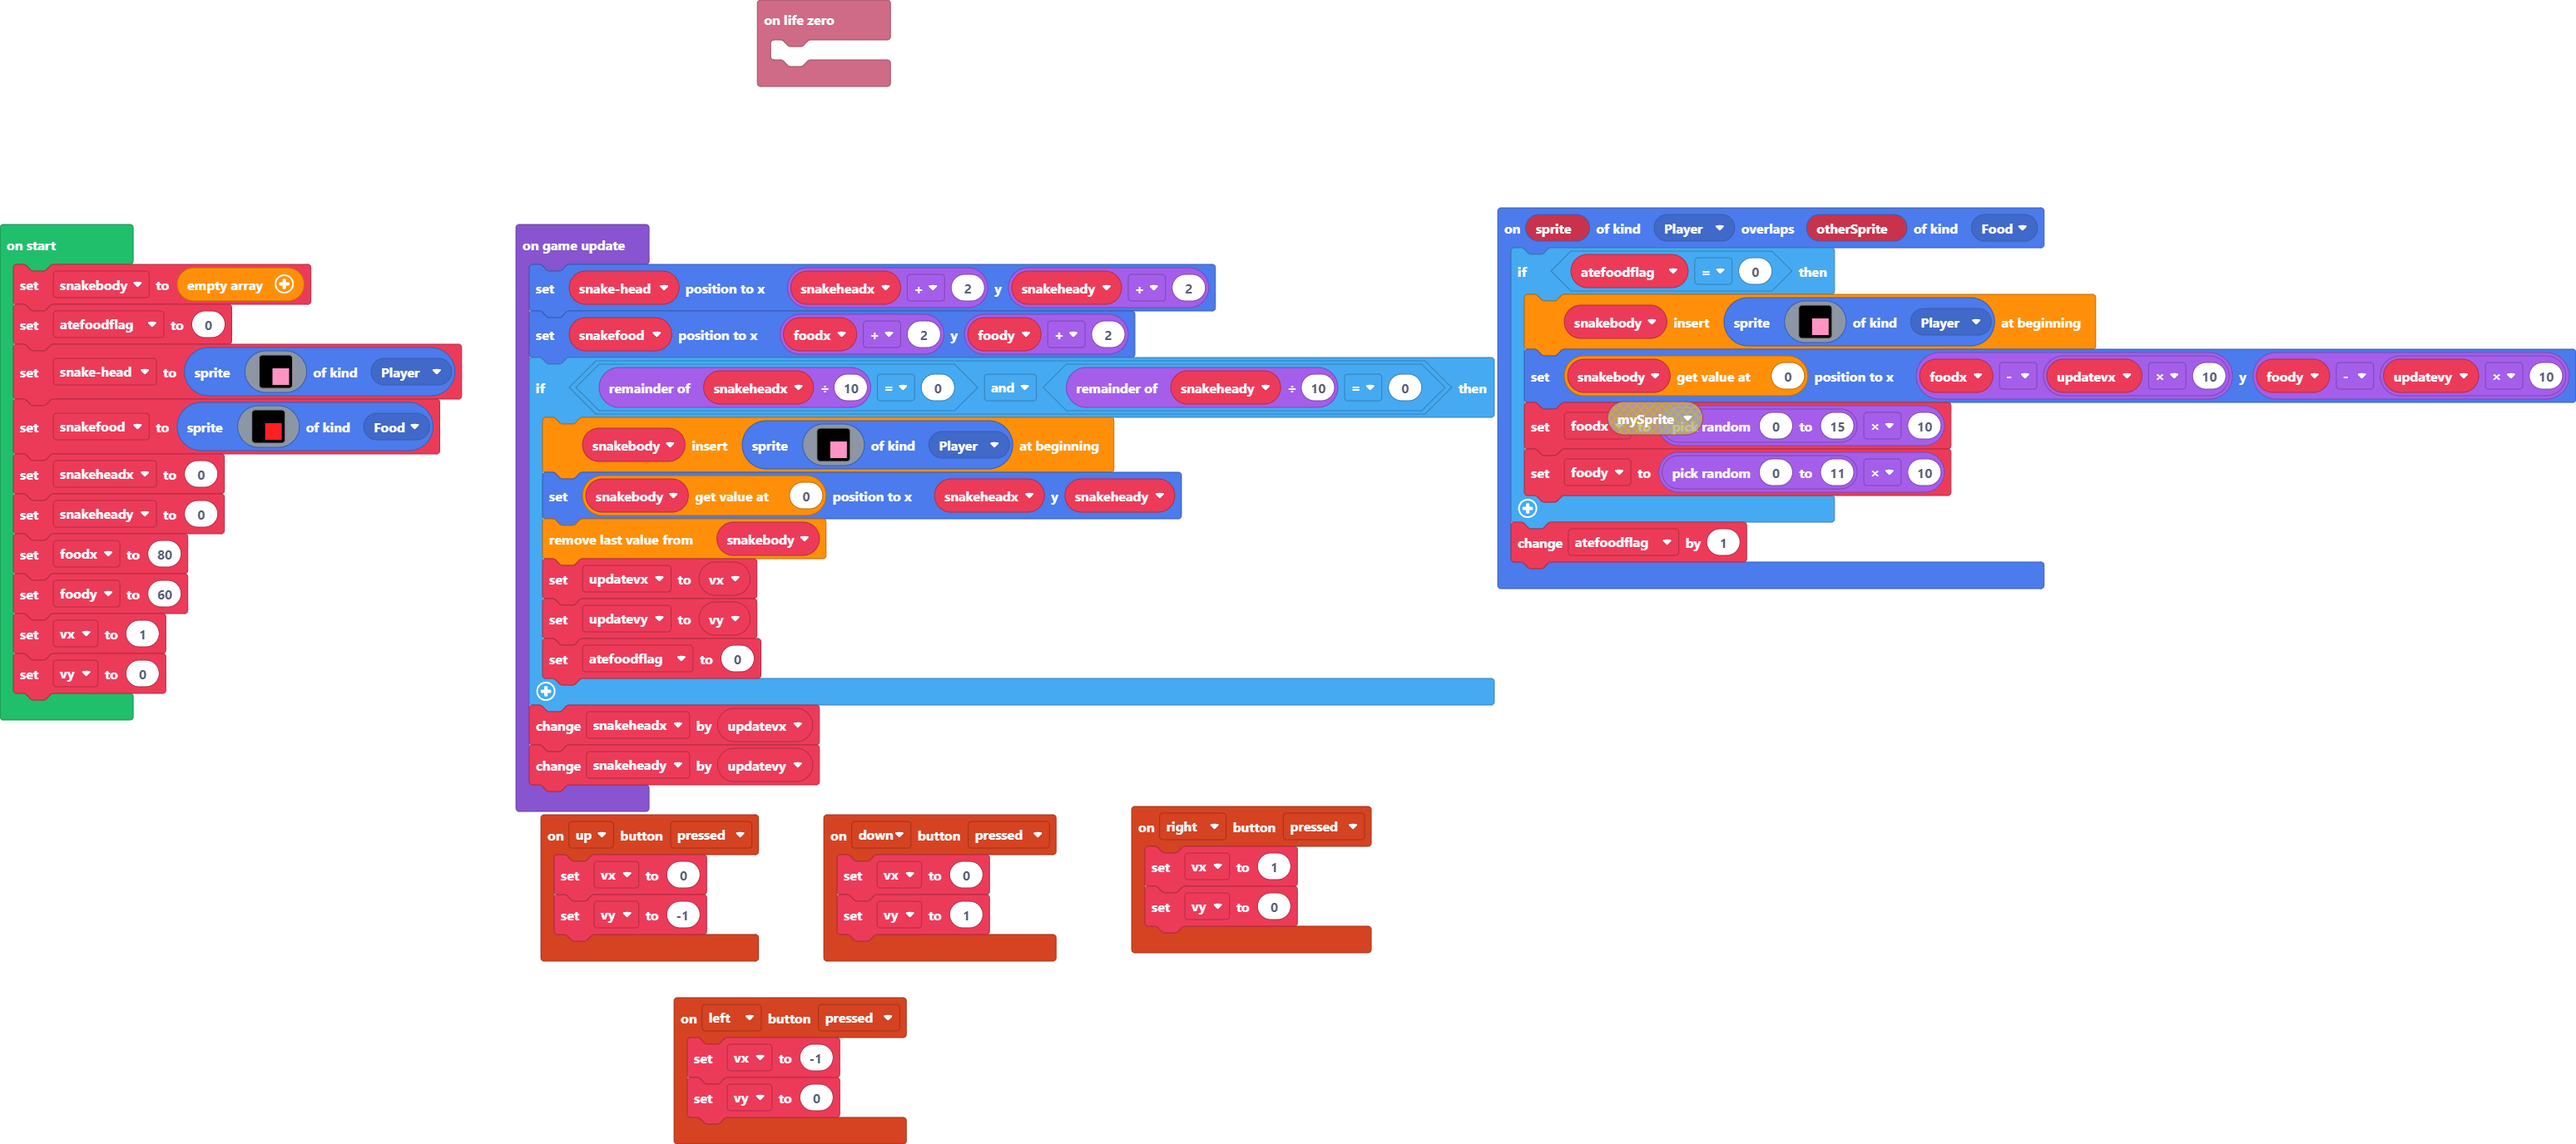
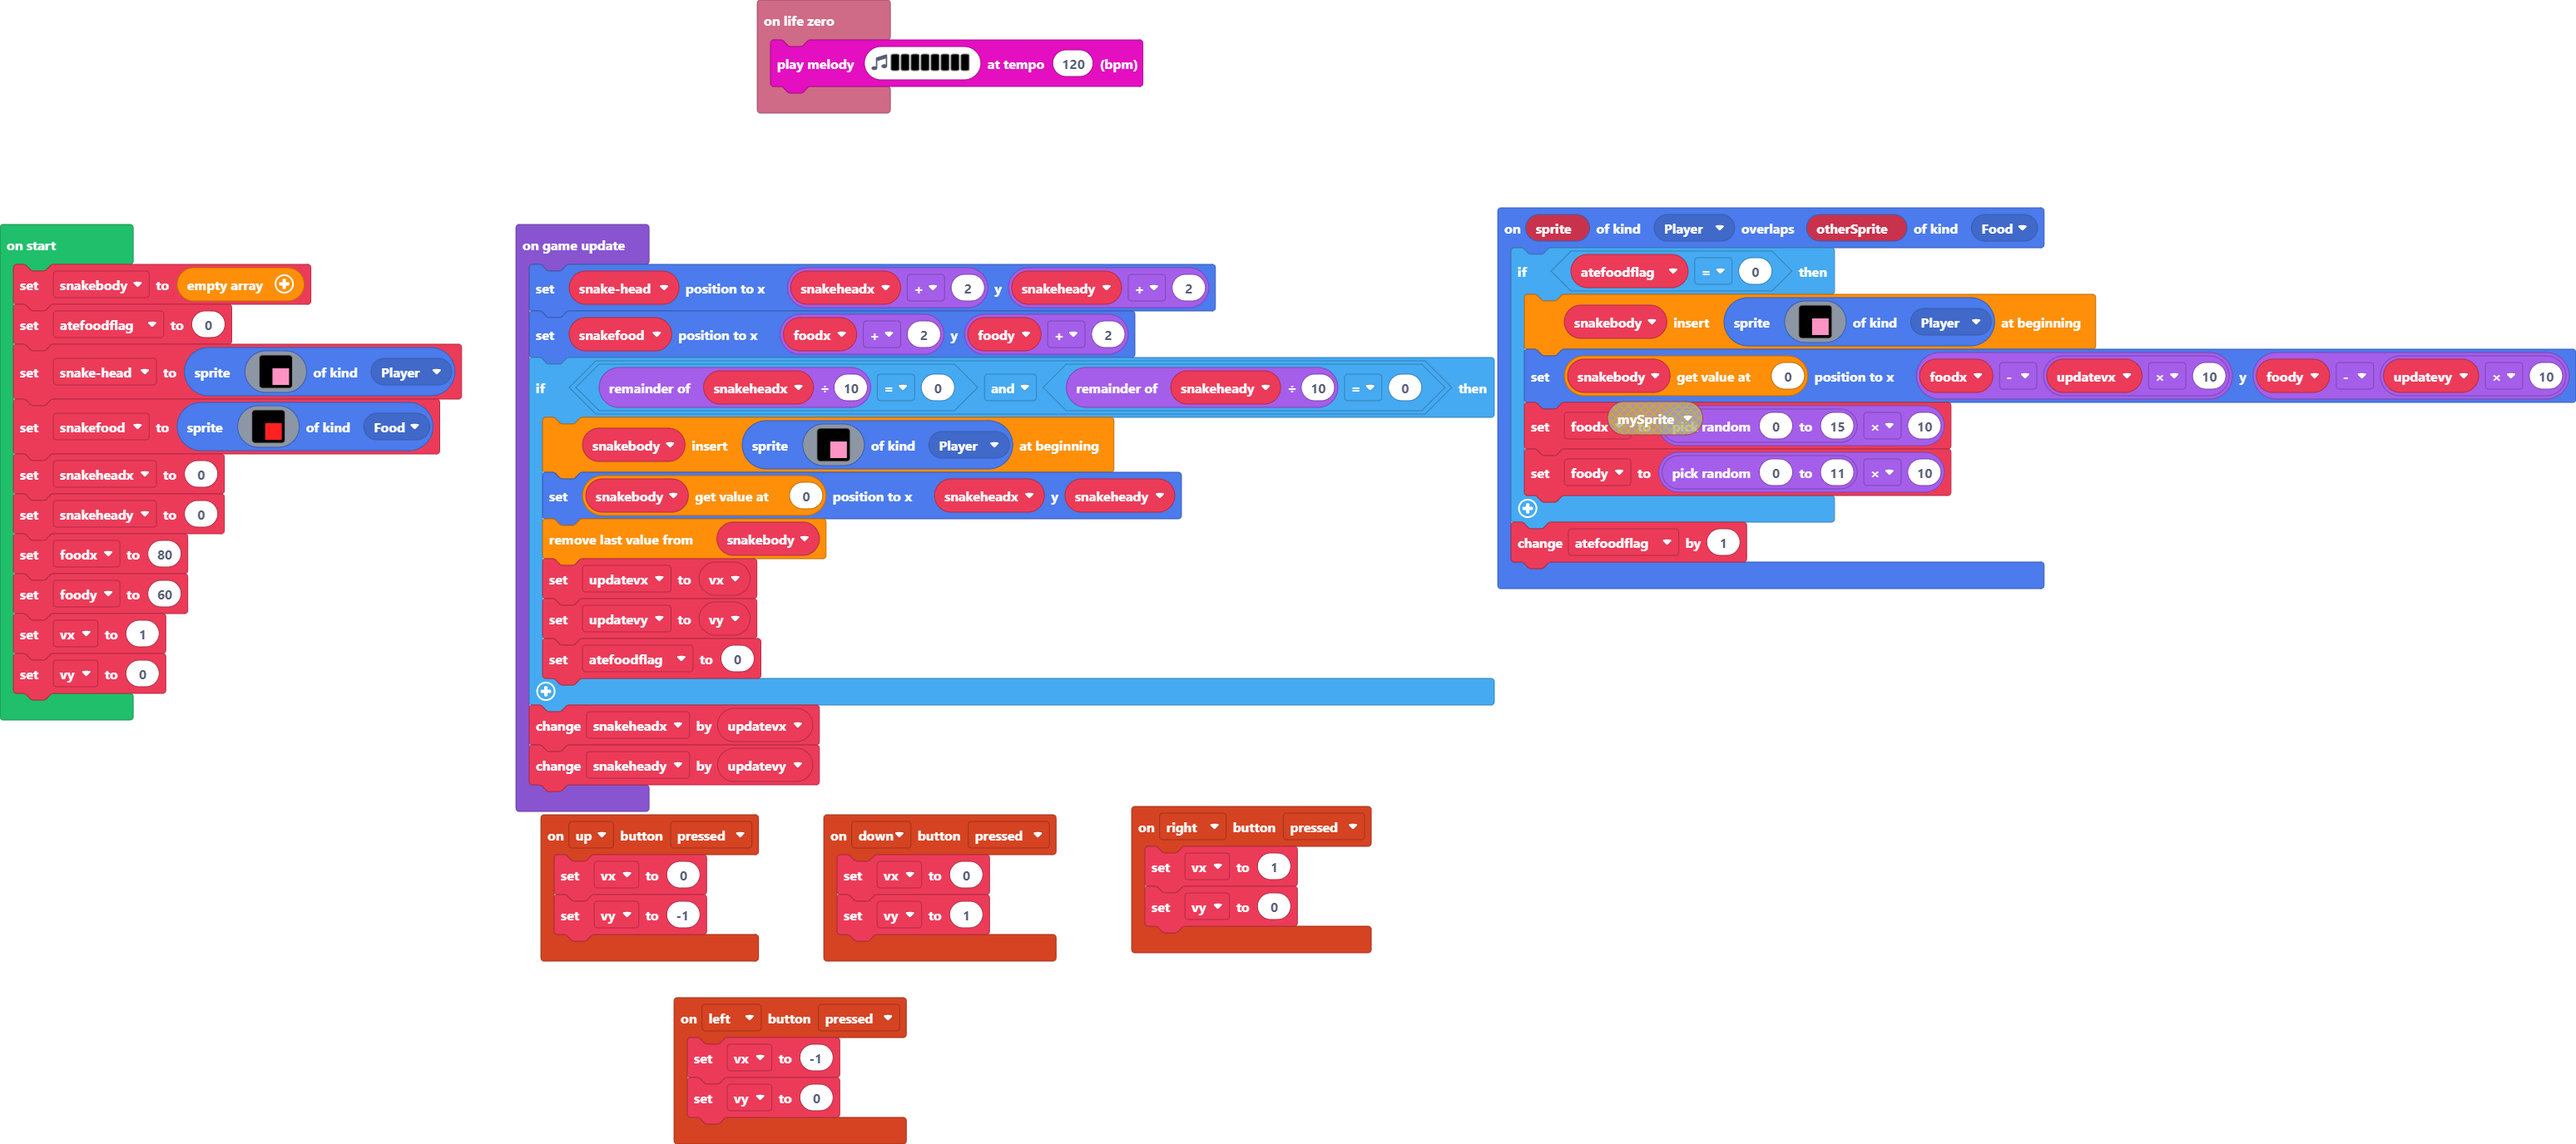
test commit 2

Changed region(s): [[0.2791, 0.0312, 0.4651, 0.125]]

diff --git a/main.ts b/main.ts
@@ -15,7 +15,7 @@ controller.down.onEvent(ControllerButtonEvent.Pressed, function () {
     vy = 1
 })
 info.onLifeZero(function () {
-	
+    music.playMelody("A F E F D G E F ", 120)
 })
 sprites.onOverlap(SpriteKind.Player, SpriteKind.Food, function (sprite, otherSprite) {
     if (atefoodflag == 0) {
